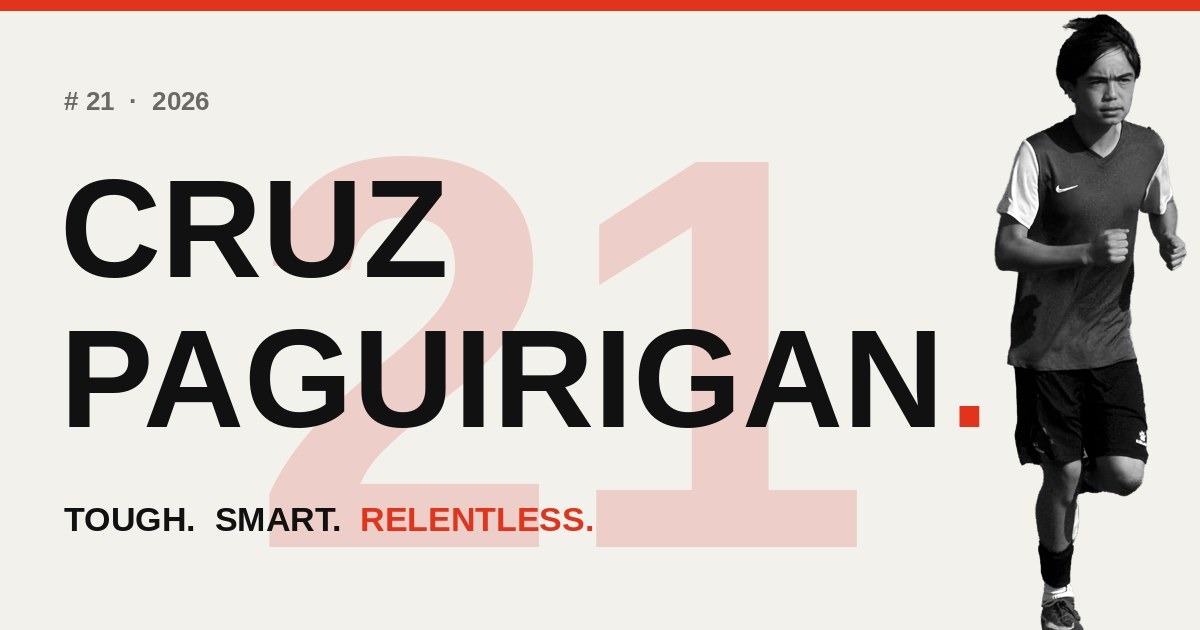
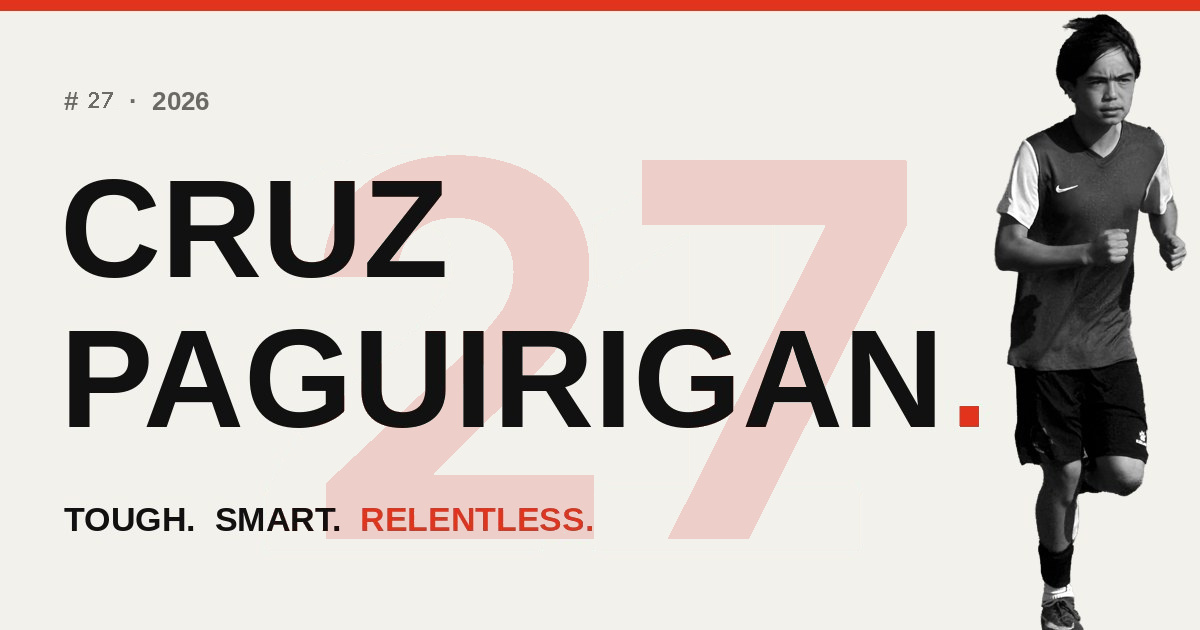
Change Cruz's jersey number from #21 to #27
Update the hero numeral, side label, page title, social tags,
favicon, and share image. Leave animation timings and the photo as they are.

Changed region(s): [[0.2158, 0.2413, 0.7708, 0.8746], [0.0617, 0.1508, 0.0925, 0.181]]

diff --git a/index.html b/index.html
@@ -3,21 +3,21 @@
 <head>
 <meta charset="UTF-8" />
 <meta name="viewport" content="width=device-width, initial-scale=1.0" />
-<title>Cruz Paguirigan — #21, Attacking Mid</title>
-<meta name="description" content="Cruz Paguirigan — #21, attacking midfielder and captain for LA Breakers FC (2012 ECNL). Tough. Smart. Relentless. Watch the highlights." />
+<title>Cruz Paguirigan — #27, Attacking Mid</title>
+<meta name="description" content="Cruz Paguirigan — #27, attacking midfielder and captain for LA Breakers FC (2012 ECNL). Tough. Smart. Relentless. Watch the highlights." />
 <meta name="theme-color" content="#f3f1ec" />
 <link rel="canonical" href="https://josephpaguirigandesign.github.io/Cruz/" />
 <link rel="icon" type="image/svg+xml" href="favicon.svg" />
 <!-- Open Graph / social share -->
 <meta property="og:type" content="website" />
-<meta property="og:title" content="Cruz Paguirigan — #21, Attacking Mid" />
+<meta property="og:title" content="Cruz Paguirigan — #27, Attacking Mid" />
 <meta property="og:description" content="Attacking midfielder and captain for LA Breakers FC (2012 ECNL). Tough. Smart. Relentless." />
 <meta property="og:url" content="https://josephpaguirigandesign.github.io/Cruz/" />
 <meta property="og:image" content="https://josephpaguirigandesign.github.io/Cruz/og.jpg" />
 <meta property="og:image:width" content="1200" />
 <meta property="og:image:height" content="630" />
 <meta name="twitter:card" content="summary_large_image" />
-<meta name="twitter:title" content="Cruz Paguirigan — #21, Attacking Mid" />
+<meta name="twitter:title" content="Cruz Paguirigan — #27, Attacking Mid" />
 <meta name="twitter:description" content="Attacking midfielder and captain for LA Breakers FC (2012 ECNL). Tough. Smart. Relentless." />
 <meta name="twitter:image" content="https://josephpaguirigandesign.github.io/Cruz/og.jpg" />
 <style>
@@ -102,7 +102,7 @@
     .hero-tag{grid-column:1/-1;margin-top:24px}
   }
 
-  /* hero photo — right side, above the ghost 21, behind the name */
+  /* hero photo — right side, above the ghost 27, behind the name */
   .hero-photo{
     position:absolute;z-index:4;left:60%;transform:translateX(calc(-50% + 160px));bottom:-52px;
     height:clamp(269px,29.4vw,486px);width:auto;pointer-events:none;
@@ -234,16 +234,16 @@
   <div class="hero-bg" aria-hidden="true">
     <div class="lines"></div>
     <div class="ghost-num">
-      <div class="layer" data-depth="14"><span class="num g5">21</span></div>
-      <div class="layer" data-depth="34"><span class="num gOut">21</span></div>
-      <div class="layer" data-depth="26"><span class="num g4">21</span></div>
-      <div class="layer" data-depth="40"><span class="num g3">21</span></div>
-      <div class="layer" data-depth="58"><span class="num g2">21</span></div>
-      <div class="layer" data-depth="80"><span class="num g1">21</span></div>
+      <div class="layer" data-depth="14"><span class="num g5">27</span></div>
+      <div class="layer" data-depth="34"><span class="num gOut">27</span></div>
+      <div class="layer" data-depth="26"><span class="num g4">27</span></div>
+      <div class="layer" data-depth="40"><span class="num g3">27</span></div>
+      <div class="layer" data-depth="58"><span class="num g2">27</span></div>
+      <div class="layer" data-depth="80"><span class="num g1">27</span></div>
     </div>
     <div class="hero-circle c2"></div>
     <div class="hero-circle"></div>
-    <div class="hero-vert" data-scroll="-0.08"># 21 · 2026</div>
+    <div class="hero-vert" data-scroll="-0.08"># 27 · 2026</div>
   </div>
   <img class="hero-photo" src="cruzhero.png" alt="Cruz Paguirigan running" data-scroll="-0.05" />
   <div class="grid">
